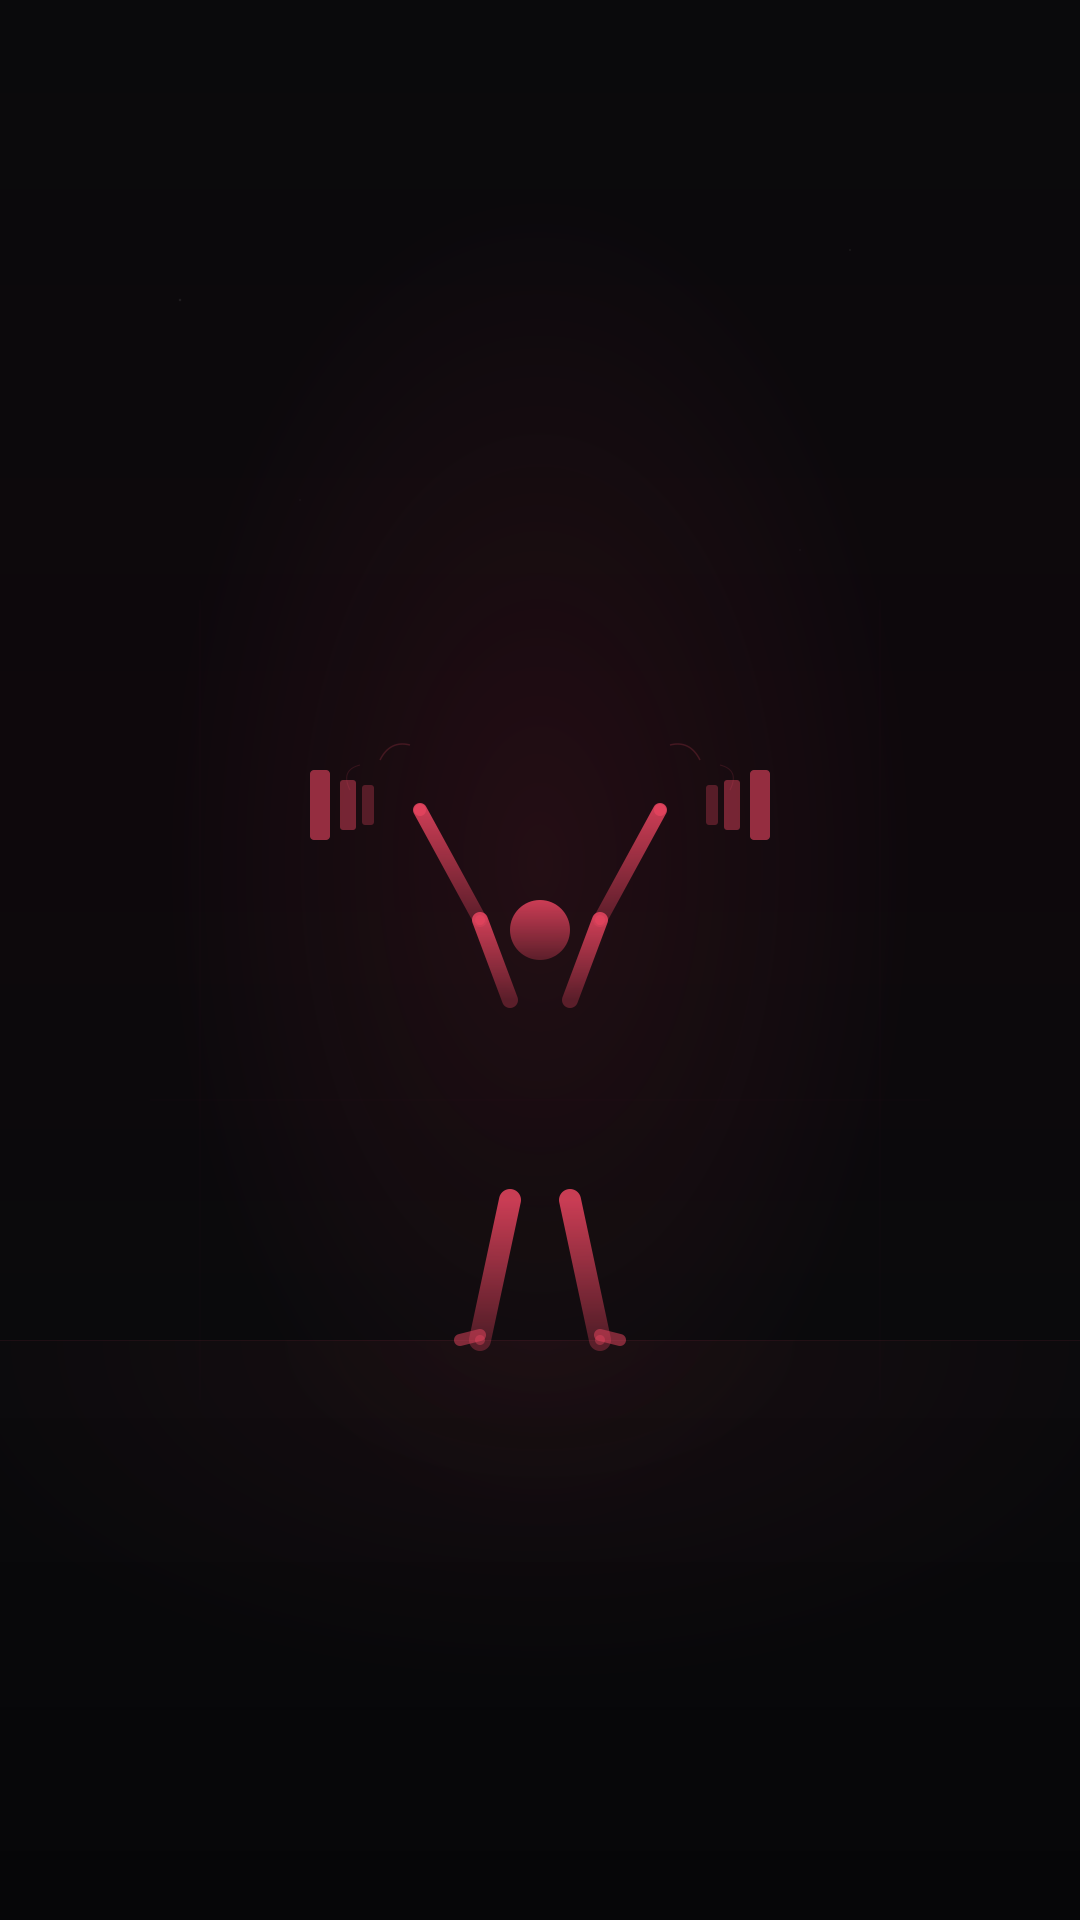
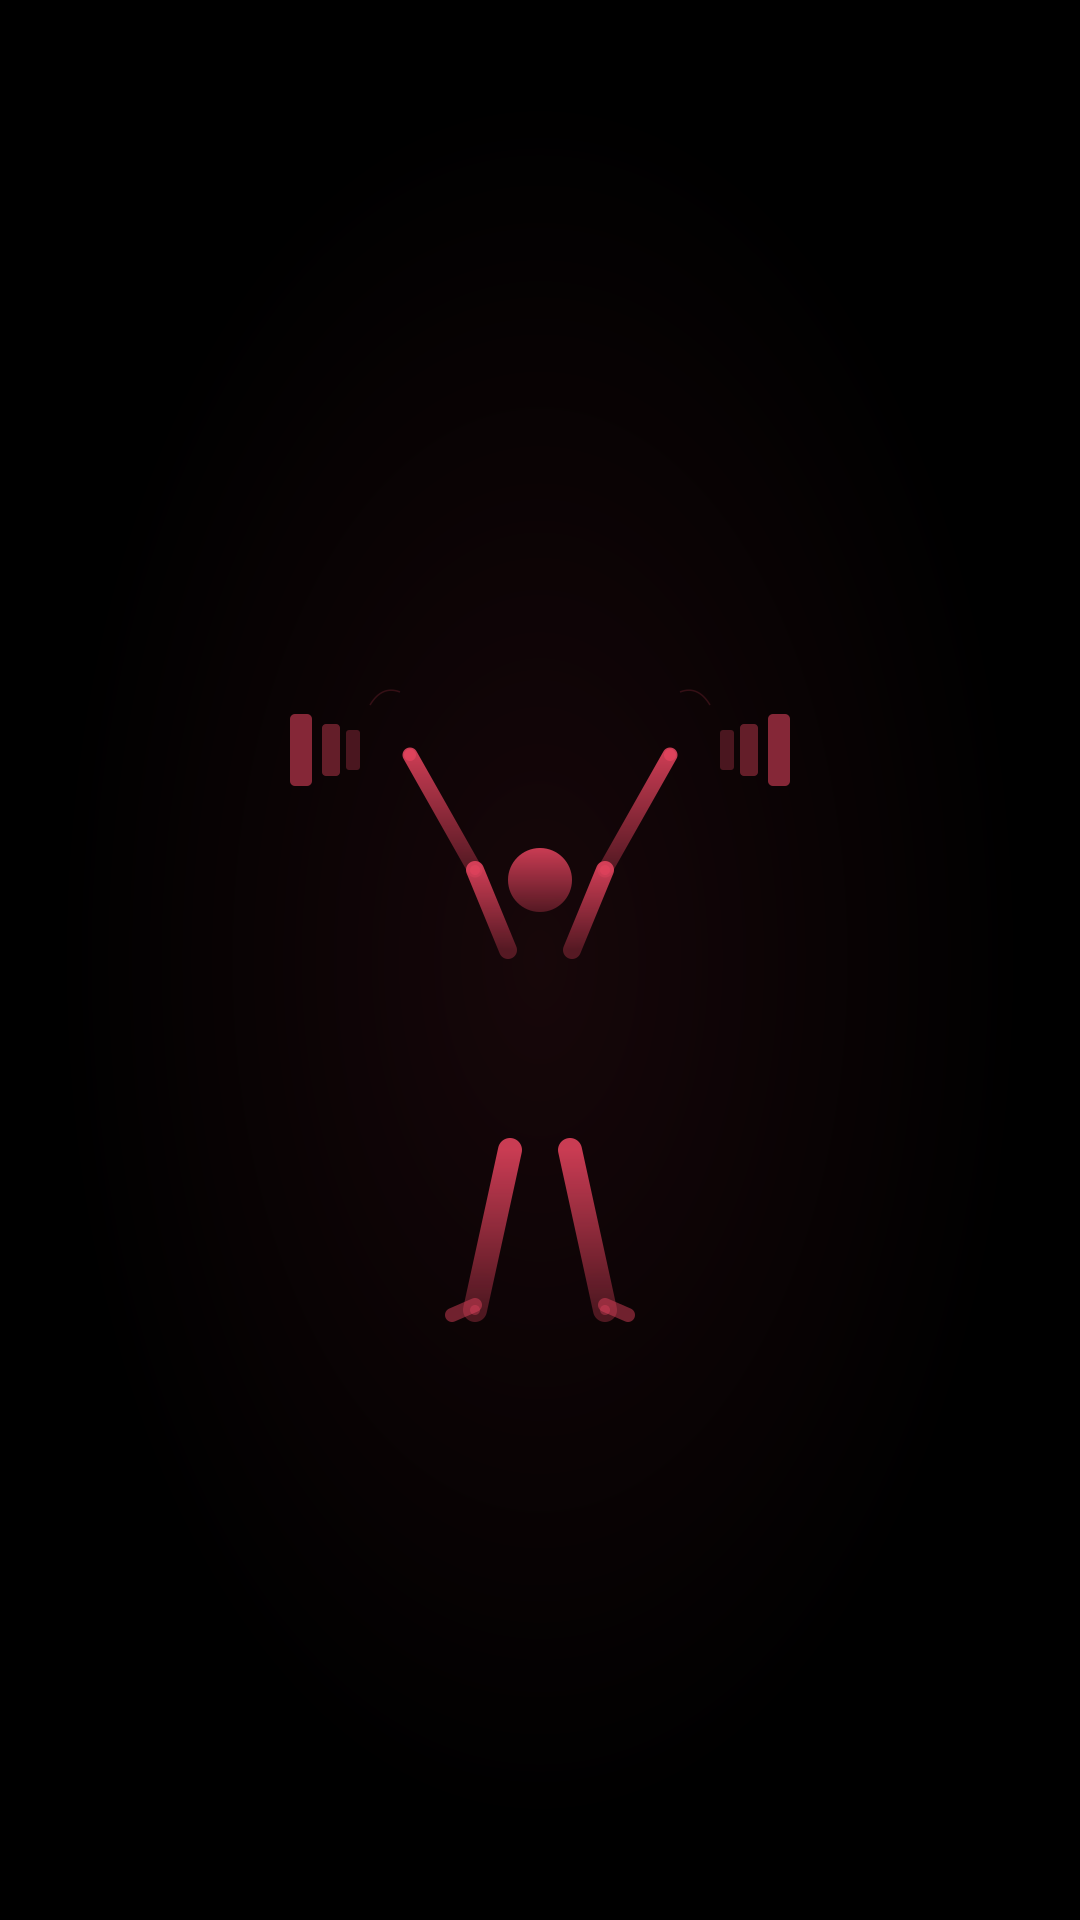
fix: remove floor line and overlay — seamless full-black background
Removed visible floor line from SVG, removed dark overlay from
welcome.tsx. Pure black background fades seamlessly into the figure.

diff --git a/mobile/app/welcome.tsx b/mobile/app/welcome.tsx
@@ -20,8 +20,7 @@ export default function Welcome() {
         <Image source={bgImage} style={StyleSheet.absoluteFill} resizeMode="cover" />
       )}
 
-      {/* Slight dark overlay for text legibility */}
-      <View style={s.overlay} />
+      {/* No overlay needed — image is already dark */}
 
       <SafeAreaView style={s.safe} edges={['top', 'bottom']}>
 
@@ -63,11 +62,6 @@ const s = StyleSheet.create({
     width:     '100%' as any,
     height:    '100%' as any,
     objectFit: 'cover' as any,
-  },
-
-  overlay: {
-    ...StyleSheet.absoluteFillObject,
-    backgroundColor: 'rgba(0,0,0,0.15)',
   },
 
   safe: {
